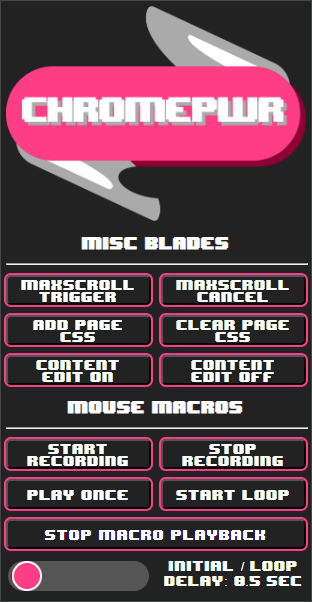
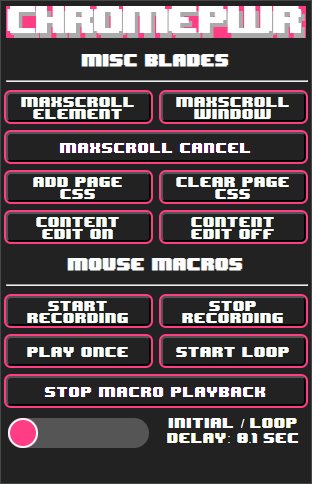
max scroll with node picker

diff --git a/blades/max-scroll.js b/blades/max-scroll.js
@@ -1,25 +1,60 @@
-export function blade_maxScrollStart() {
-    if (window.lastTimeoutId > 0) {
+export function blade_maxScrollStartElement() {
+    if (document.lastTimeoutId > 0) {
         return;
     }
 
-    window.prevY = 0;
-    window.lastTimeoutId = 0;
+    document.lastTimeoutId = 0;
+
+    const next = (targetElement) => {
+        targetElement.scrollTo(0, Number.MAX_SAFE_INTEGER);
+        document.lastTimeoutId = setTimeout(next, 100, targetElement);
+    }
+
+    document.initNodePicker((targetElement) => {
+        let lastScrollHeight = 0;
+
+        targetElement.onscroll = (event) => {
+            const currentScrollHeight = event.target.scrollTop;
+            if (currentScrollHeight < lastScrollHeight) {
+                clearTimeout(document.lastTimeoutId);
+                document.lastTimeoutId = 0;
+            }
+
+            lastScrollHeight = currentScrollHeight;
+        };
+
+        next(targetElement);
+    });
+}
+
+export function blade_maxScrollStartWindow() {
+    if (document.lastTimeoutId > 0) {
+        return;
+    }
+
+    document.lastTimeoutId = 0;
 
     const next = () => {
-        if (window.prevY <= window.scrollY) {
-            window.prevY = window.scrollY;
-            window.scrollTo(0, Number.MAX_SAFE_INTEGER);
-            window.lastTimeoutId = setTimeout(next, 100);
-        } else {
-            window.lastTimeoutId = 0;
-        };
+        window.scrollTo(0, Number.MAX_SAFE_INTEGER);
+        document.lastTimeoutId = setTimeout(next, 100);
     }
+
+    let lastScrollHeight = 0;
+
+    window.onscroll = () => {
+        const currentScrollHeight = window.scrollY;
+        if (currentScrollHeight < lastScrollHeight) {
+            clearTimeout(document.lastTimeoutId);
+            document.lastTimeoutId = 0;
+        }
+
+        lastScrollHeight = currentScrollHeight;
+    };
 
     next();
 }
 
 export function blade_maxScrollCancel() {
-    clearTimeout(window.lastTimeoutId);
-    window.lastTimeoutId = 0;
+    clearTimeout(document.lastTimeoutId);
+    document.lastTimeoutId = 0;
 }

diff --git a/blades/passive/shared/node-picker-utility.js b/blades/passive/shared/node-picker-utility.js
@@ -1,0 +1,61 @@
+document.initNodePicker = (callback) => {
+    if (document.nodePickerActive) {
+        return;
+    }
+
+    document.nodePickerActive = true;
+
+    const attributeName = 'chrome-pwr-node-picker-highlight';
+    const throttlingDelay = 50;
+
+    let throttling = false;
+    let lastNode = null;
+
+    const onMouseMove = event => {
+        if (throttling) {
+            return;
+        }
+
+        throttling = true;
+        setTimeout(() => { throttling = false; }, throttlingDelay);
+
+        if (event.target !== lastNode) {
+            if (lastNode && lastNode.hasAttribute(attributeName)) {
+                lastNode.removeAttribute(attributeName);
+            }
+
+            event.target.setAttribute(attributeName, true);
+            lastNode = event.target;
+        }
+    };
+
+    document.addEventListener('mousemove', onMouseMove);
+
+    const muteEvent = event => {
+        event.stopPropagation();
+        event.preventDefault();
+    };
+
+    document.addEventListener('mousedown', muteEvent, true);
+    document.addEventListener('click', muteEvent, true);
+
+    const picked = event => {
+        muteEvent(event);
+
+        setTimeout(() => {
+            document.removeEventListener('mousemove', onMouseMove);
+            document.removeEventListener('mousedown', muteEvent, true);
+            document.removeEventListener('click', muteEvent, true);
+            document.removeEventListener('mouseup', picked, true);
+        }, 0);
+
+        document.querySelectorAll(`[${attributeName}]`)
+            .forEach((node) => node.removeAttribute(attributeName));
+
+        document.nodePickerActive = false;
+
+        callback(event.target);
+    };
+
+    document.addEventListener('mouseup', picked, true);
+};

diff --git a/chrome-pwr.html b/chrome-pwr.html
@@ -3,13 +3,14 @@
     <link rel="stylesheet" type="text/css" href="chrome-pwr.css" />
 </head>
 <body>
-    <img id="logo" src="images/chrome-pwr.png" />
+    <img id="bar" src="images/bar.png" />
 
     <h3>Misc Blades</h3>
     <hr />
     <div class="grid">
-        <button id="max-scroll-trigger">maxscroll trigger</button>
-        <button id="max-scroll-cancel">maxscroll cancel</button>
+        <button id="max-scroll-start-element">maxscroll element</button>
+        <button id="max-scroll-start-window">maxscroll window</button>
+        <button id="max-scroll-cancel" class="wide">maxscroll cancel</button>
         <button id="forced-css-add">add page css</button>
         <button id="forced-css-clear">clear page css</button>
         <button id="content-edit-on">content edit on</button>

diff --git a/chrome-pwr.js b/chrome-pwr.js
@@ -1,6 +1,12 @@
-document.getElementById('max-scroll-trigger').onclick = async () => {
+document.getElementById('max-scroll-start-element').onclick = async () => {
     await chrome.runtime.sendMessage({
-        triggerBlade: 'maxScrollStart'
+        triggerBlade: 'maxScrollStartElement'
+    });
+};
+
+document.getElementById('max-scroll-start-window').onclick = async () => {
+    await chrome.runtime.sendMessage({
+        triggerBlade: 'maxScrollStartWindow'
     });
 };
 

diff --git a/blades/passive/shared/node-picker-utility.css b/blades/passive/shared/node-picker-utility.css
@@ -1,0 +1,10 @@
+[chrome-pwr-node-picker-highlight] {
+    box-shadow: inset 0px 0px 0px 1px #8d0034 !important;
+    background-color: #ff3d84 !important;
+    opacity: 0.71 !important;
+}
+
+img[chrome-pwr-node-picker-highlight],
+video[chrome-pwr-node-picker-highlight] {
+    filter: contrast(3) invert(100%) !important;
+}

diff --git a/chrome-pwr.css b/chrome-pwr.css
@@ -54,8 +54,11 @@ input[type='range']:hover::-webkit-slider-thumb {
     transform: scale(0.85);
 }
 
-#logo {
+#bar {
     width: 300px;
+    object-fit: cover;
+    height: 32px;
+    image-rendering: pixelated;
 }
 
 #macro-recorder-delay-display {
